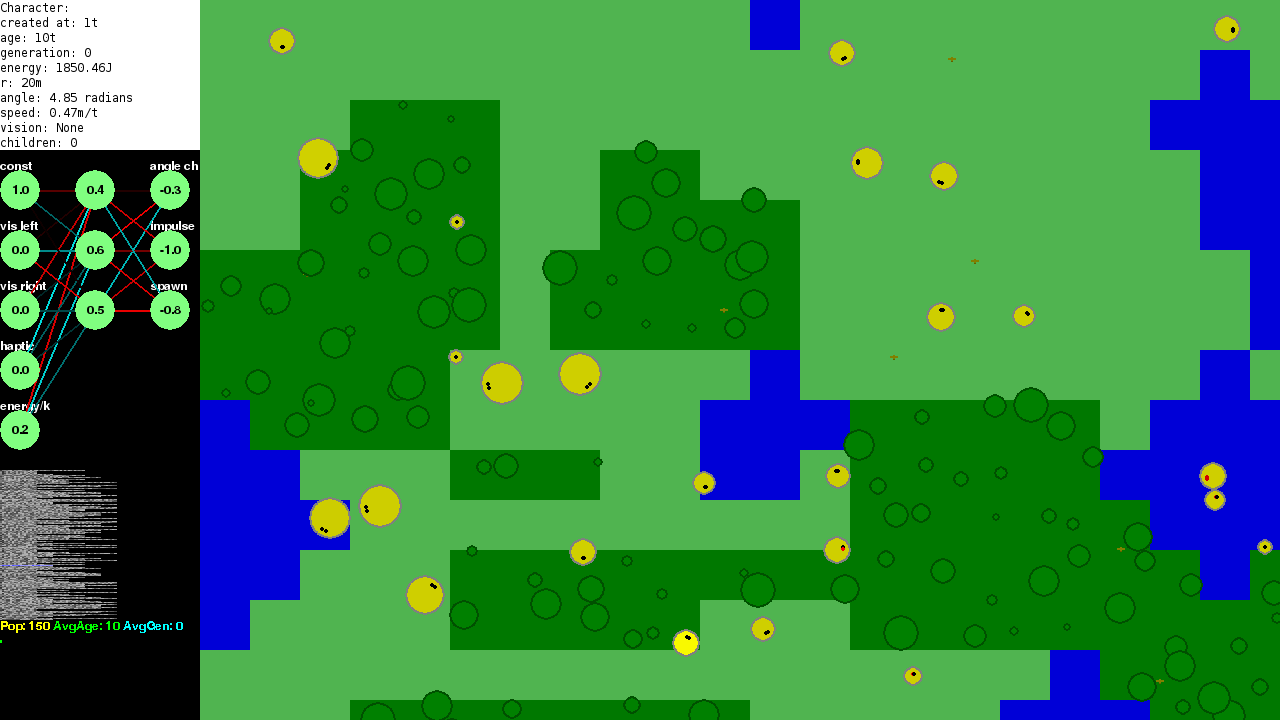
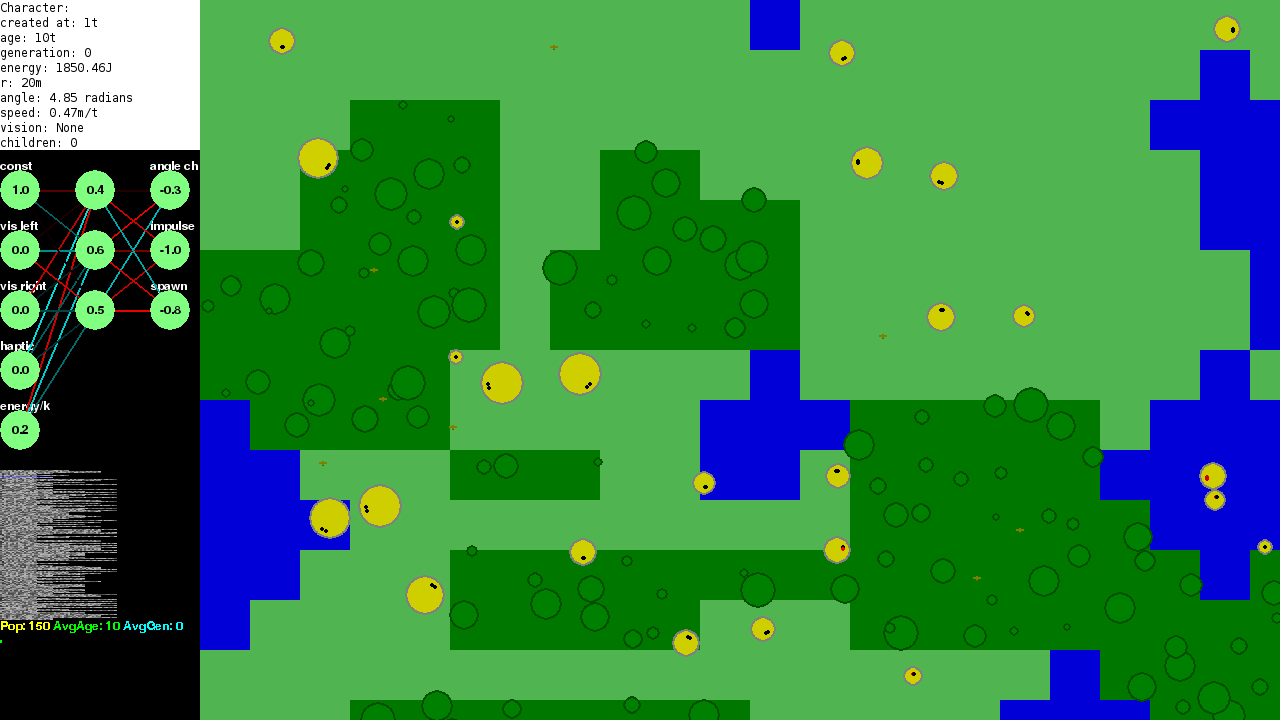
How about that error tolerance eh.

Changed region(s): [[0.0, 0.6417, 0.0938, 0.8861], [0.5312, 0.8861, 0.5625, 0.9167]]

diff --git a/novel-evolve/__main__.py b/novel-evolve/__main__.py
@@ -5,6 +5,7 @@ import sys
 import time
 import json
 import argparse
+import traceback
 
 import random
 random.seed(101)
@@ -110,10 +111,13 @@ def main():
                     else:
                         render = True
                 elif event.key == K_d:
-                    if window.world.active_item:
-                        with open('active-%s.json'%int(time.time()), 'w') as f:
-                            json.dump(window.world.active_item.dump(), f,
-                                sort_keys=True, indent=4)
+                    try:
+                        if window.world.active_item:
+                            with open('active-%s.json'%int(time.time()), 'w') as f:
+                                json.dump(window.world.active_item.dump(), f,
+                                    sort_keys=True, indent=4)
+                    except:
+                        traceback.print_exc()
             elif event.type==VIDEORESIZE:
                 screen = pygame.display.set_mode(event.dict['size'], RESIZABLE)
                 window.screen = screen

diff --git a/novel-evolve/tiles.py b/novel-evolve/tiles.py
@@ -22,7 +22,7 @@ class TileView(pygame.sprite.Sprite):
         if self.tile.terrain == 'meadow':
             self.fertility_mult = 0.0025
             self.colour = (80, 180, 80)
-            self.max_food = 5
+            self.max_food = 2
         elif self.tile.terrain == 'lake':
             self.fertility_mult = 0
             self.colour = (0, 0, 215)
